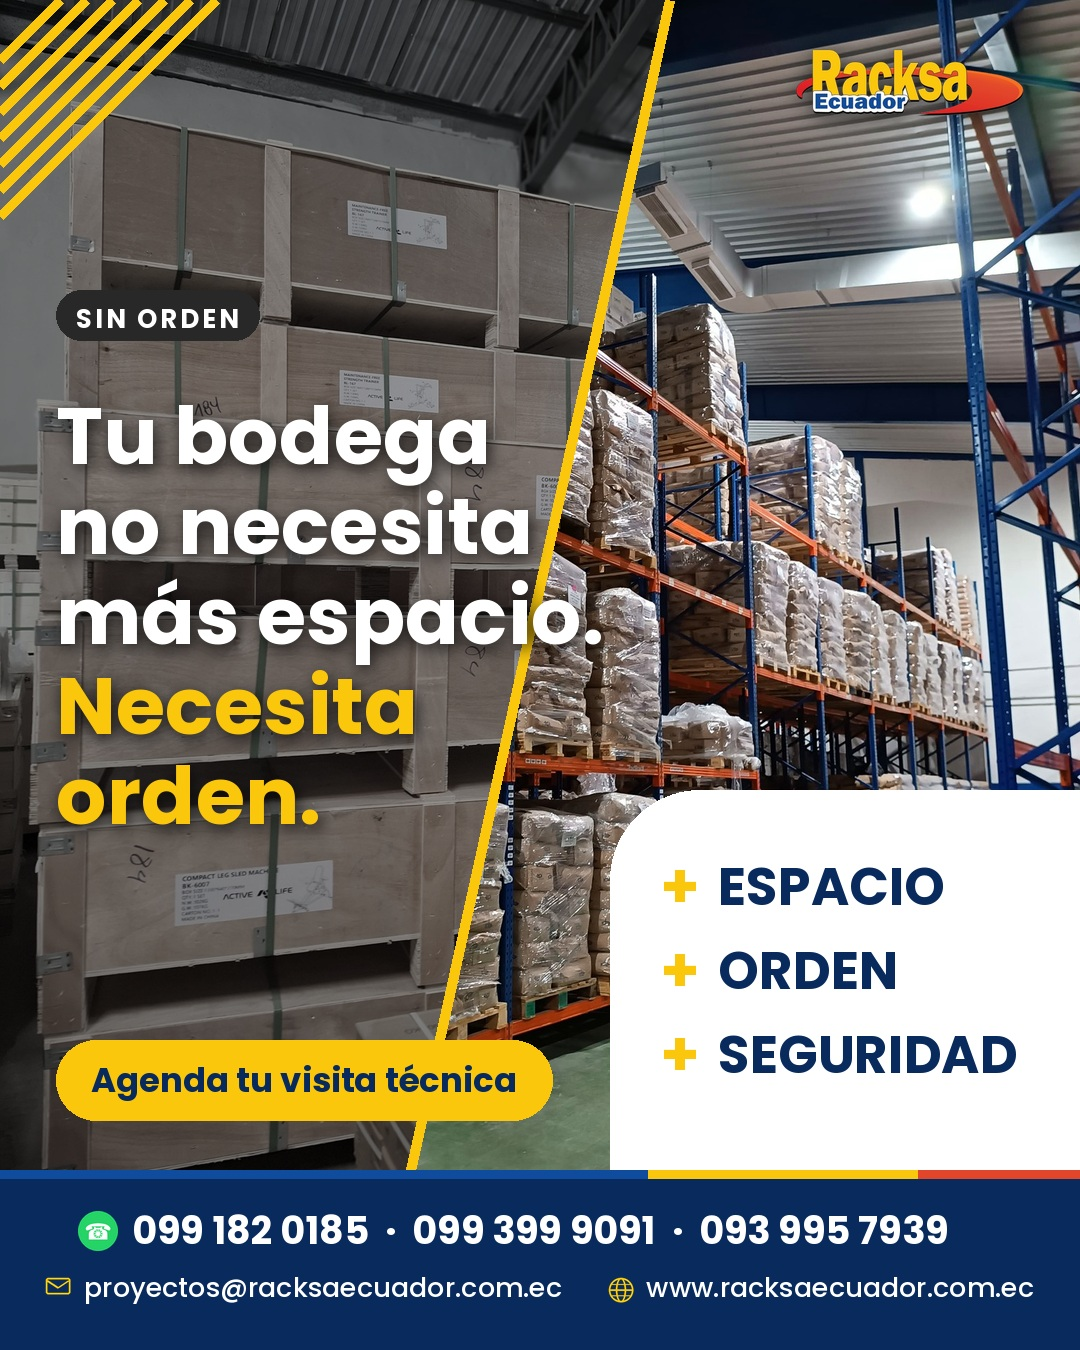
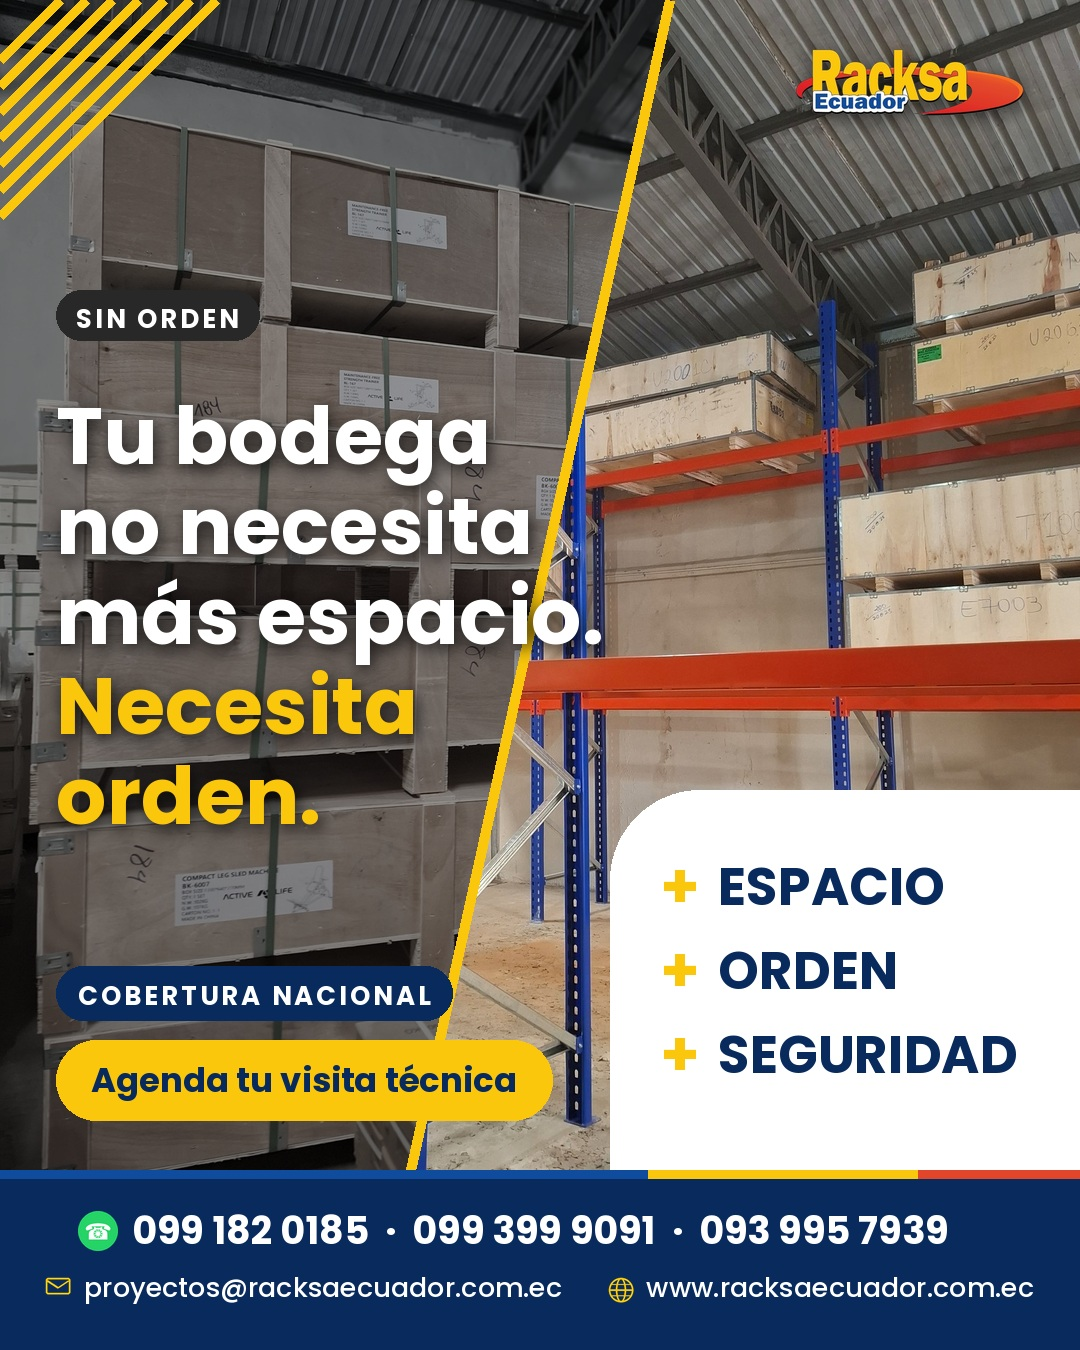
Ajustes: rack con las mismas cajas, nueva foto y cobertura nacional
Claude-Session: https://claude.ai/code/session_01PV1UVXJA3P9RVwQhKVeuk8

Changed region(s): [[0.0306, 0.0, 1.0, 0.8711]]

diff --git a/redes/pedidos/2026-10-24_estilo_competencia/TEXTOS.md b/redes/pedidos/2026-10-24_estilo_competencia/TEXTOS.md
@@ -7,6 +7,7 @@ Tu bodega no necesita más espacio. Necesita orden 📦
 ✅ Más espacio aprovechando la altura
 ✅ Más orden con racks a la medida de tu operación
 ✅ Más seguridad para tu equipo y tu mercadería
+✅ Cobertura a nivel nacional
 
 Agenda tu visita técnica.
 
@@ -31,6 +32,7 @@ Antes de alquilar más metros, vale la pena revisar cómo se usa el espacio actu
 ✅ Más espacio aprovechando la altura
 ✅ Más orden con el sistema adecuado para lo que almacenas
 ✅ Más seguridad para tu equipo y tu mercadería
+✅ Cobertura a nivel nacional
 
 ¿Cuánto espacio de tu bodega está ocupado por desorden?
 
@@ -52,7 +54,7 @@ CALIDAD Y CONFIANZA A TIEMPO
 
 ✅ Rack selectivo para pallets
 ✅ Perchas para cajas y picking
-✅ Montaje en sitio con nuestro equipo
+✅ Montaje en sitio con nuestro equipo, a nivel nacional
 
 Agenda tu visita técnica.
 
@@ -76,7 +78,7 @@ La altura libre es el espacio más desaprovechado en muchas bodegas. Con el sist
 
 ✅ Rack selectivo: 1.000 kg por pallet y 2.000 kg por nivel, con carga distribuida
 ✅ Perchas de picking: 500 kg por nivel
-✅ Montaje en sitio con nuestro equipo
+✅ Montaje en sitio con nuestro equipo, a nivel nacional
 
 ¿Cuántos metros de altura tiene tu bodega y cuántos usas hoy?
 
